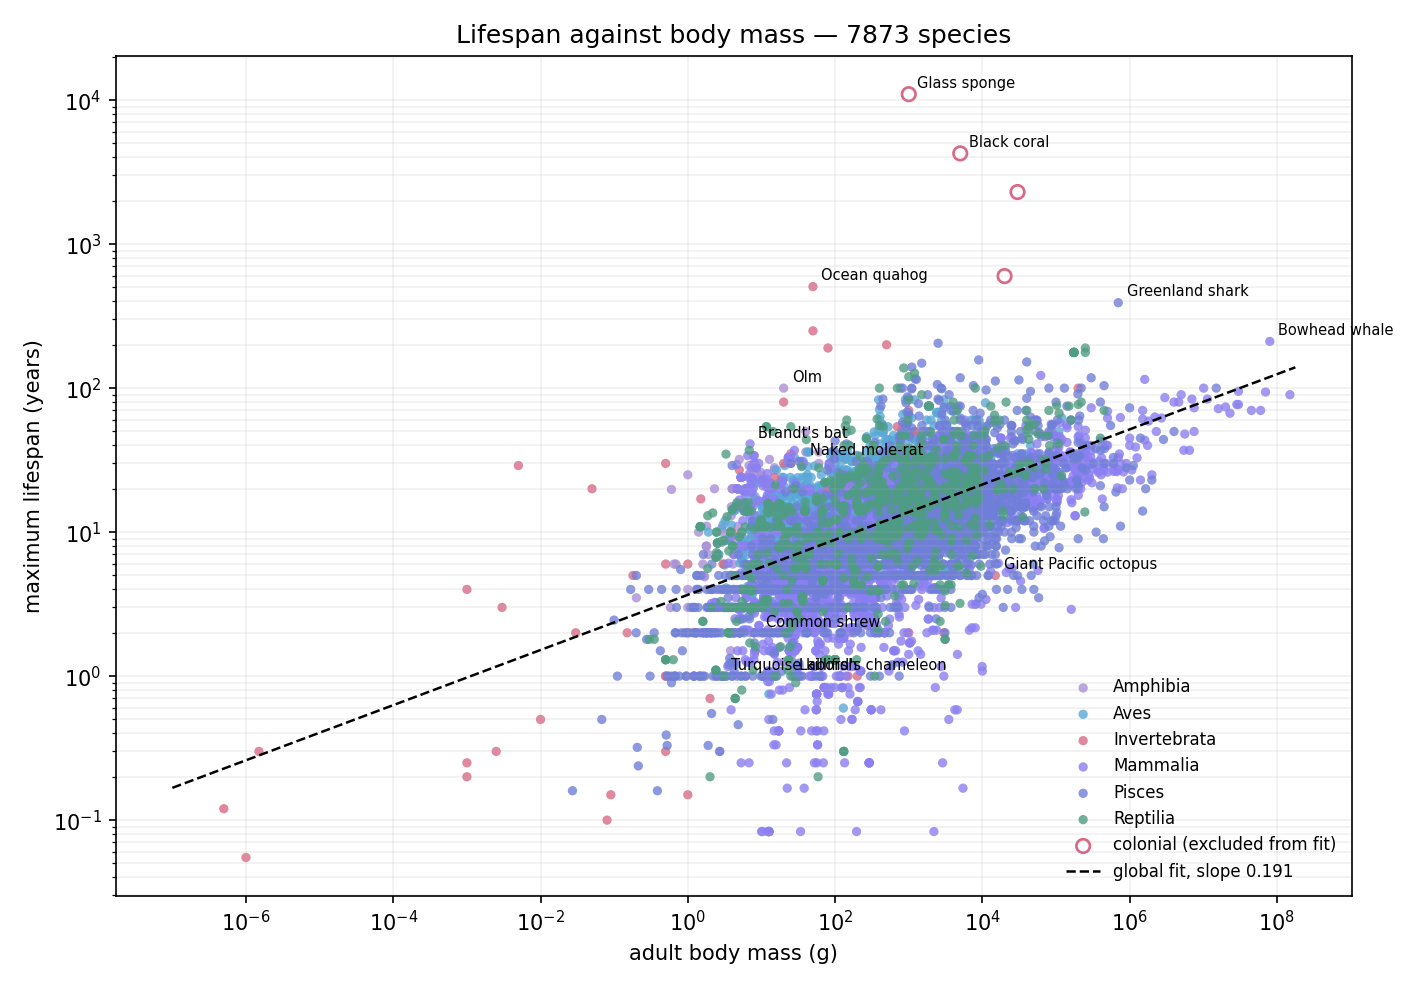
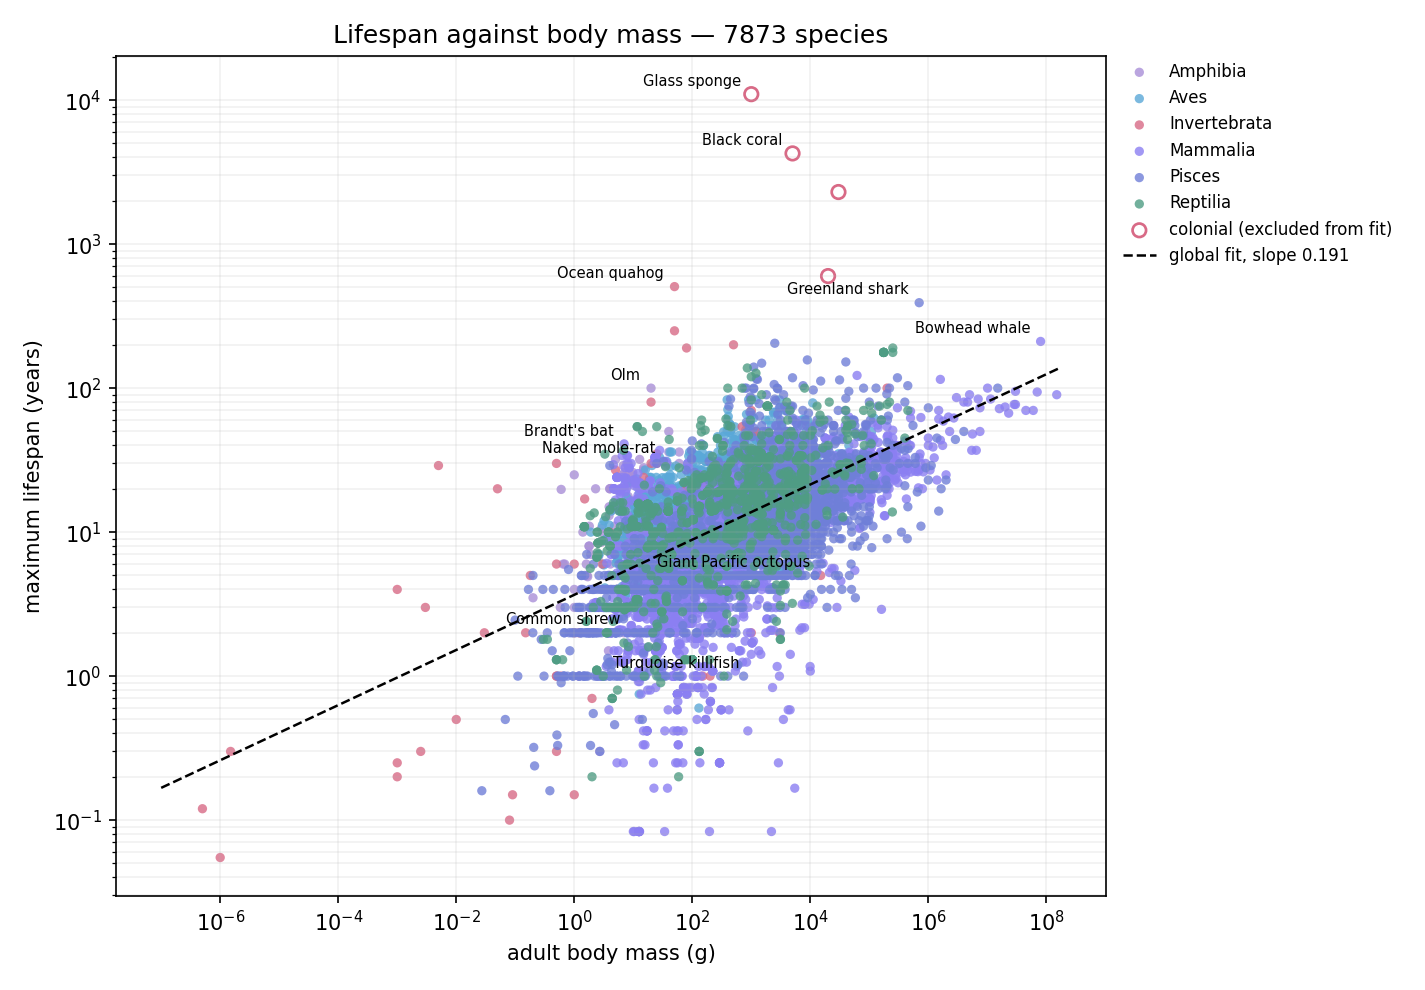
Rebuild site: globe atlas, 3D brain, wider layout, corrected models (2026-08-03)

diff --git a/index.html b/index.html
@@ -16,10 +16,6 @@
 <h1>Andrew Silvestri</h1>
 <p class="dim">Chemical engineering at UT Austin. Energy systems modelling.</p>
 
-<p>I build models of energy systems, from the thermodynamics of a single vessel
-up to a model of the world energy system with 86,622 nodes. Everything here ships
-with its code, its data sources, and its limits written down.</p>
-
 <div class="card">
 <div class="tag">Main project</div>
 <h3 style="margin-top:4px">A model of the world energy system</h3>
@@ -75,7 +71,9 @@ The port matched the workbook formulas exactly, and showed that the workbook's
 displayed values carried a stale calculation.</p>
 </div>
 <div class="card">
-<h3 style="margin-top:4px"></h3>
+<div class="tag">Data and method</div>
+<h3 style="margin-top:4px"><a href="model.html">Where the model's numbers come
+from</a></h3>
 <p>Every power plant in the world database, every settlement above fifteen
 thousand people, every port in the World Port Index, and the measured climate
 and disaster records, wired into 86,622 nodes and 197,068 links. The page sets out
@@ -86,61 +84,66 @@ where each number came from and what the model will not tell you.</p>
 <hr>
 <h2>Climate research</h2>
 
+<div class="cardgrid">
+<div class="card">
+<div class="tag">Life-cycle · interactive</div>
+<h3 style="margin-top:4px"><a href="climate-cost.html">The true climate
+cost</a></h3>
+<p>Twenty products taken apart stage by stage, with the allocation on every
+edge and the lifetime of every vehicle exposed rather than buried. Change the
+route and it recomputes instead of looking up an answer somebody prepared.</p>
+</div>
 <div class="card">
 <div class="tag">Agriculture · synthesis</div>
 <h3 style="margin-top:4px"><a href="beans.html">Nitrogen-fixing beans</a></h3>
 <p>A legume makes its own fertiliser; a cereal needs a Haber&ndash;Bosch
 plant to make it instead. Four routes are being engineered to move that
 ability, and they are at wildly different stages &mdash; one is routine, one
-produces structures that do not work, one has never produced a plant. The
-figure states each at the level it has actually reached.</p>
-<a class="btn ghost" href="beans.html">Read it</a>
+produces structures that do not work, one has never produced a plant.</p>
 </div>
-
 <div class="card">
-<div class="tag">Materials · synthesis</div>
+<div class="tag">Materials · interactive</div>
 <h3 style="margin-top:4px"><a href="running-shoes.html">What a running shoe is
 made of</a></h3>
-<p>Three shoes in side profile with every layer named by its polymer. Six or
-seven plastics, bonded to each other, worn out in months: the recycling
-problem is in the construction rather than the disposal, and the take-back
-bin addresses the last step of a decision made at the design stage.</p>
-<a class="btn ghost" href="running-shoes.html">Read it</a>
+<p>Four constructions in three dimensions, every layer named by its polymer.
+Six or seven plastics, bonded to each other, worn out in months: the recycling
+problem is in the construction rather than the disposal.</p>
 </div>
-
 <div class="card">
 <div class="tag">Books · in progress</div>
 <h3 style="margin-top:4px"><a href="mammon.html">The Mammon trilogy</a></h3>
 <p>Three books reading civilisation as an energy system: greed, growth and
 maintenance, in that order. Started April 2026 on a five-year schedule. The
-page states the structure, the reading and the current state, which for a
-project this long is the only honest thing to publish early.</p>
-<a class="btn ghost" href="mammon.html">Read it</a>
+page states the structure, the reading and the current state.</p>
+</div>
 </div>
 
 <hr>
 <h2>Other work</h2>
 
+<div class="cardgrid">
 <div class="card">
 <div class="tag">Sonification · interactive</div>
 <h3 style="margin-top:4px"><a href="skyline.html">Skylines, played</a></h3>
 <p>A skyline and a spectrum analyser are the same picture, so the picture is
-played. Twenty-seven cities built from real building heights and coordinates; turn on
-the spot and the sound turns with you. What is measured, what is assumed and
-what is invented are each labelled, because in sonification they usually are
-not.</p>
-<a class="btn ghost" href="skyline-app.html" target="_blank" rel="noopener">Open it</a>
+played. Twenty-seven cities built from real building heights and coordinates;
+turn on the spot and the sound turns with you. What is measured, what is
+assumed and what is invented are each labelled.</p>
 </div>
-
 <div class="card">
 <div class="tag">Allometry · interactive</div>
 <h3 style="margin-top:4px"><a href="longevity.html">Longevity quotient</a></h3>
 <p>How long an animal lives, against how long an animal of its size should
 live. Body mass predicts lifespan across fourteen orders of magnitude; the
-quotient is what is left once that relationship is divided out. An ocean quahog
-beats its prediction thirty-two-fold, a honey bee worker misses it twentyfold,
-and the queen that shares her genome does not.</p>
-<a class="btn ghost" href="longevity-app.html" target="_blank" rel="noopener">Open the visualiser</a>
+quotient is what is left once that relationship is divided out.</p>
+</div>
+<div class="card">
+<div class="tag">Desktop · interactive</div>
+<h3 style="margin-top:4px"><a href="desktop.html">The bookshelf</a></h3>
+<p>A wallpaper built from a Goodreads export: your books as drawn spines, or
+as a wall of their real covers brought to one finish. The CSV is parsed in the
+browser and never leaves it.</p>
+</div>
 </div>
 
 <hr>

diff --git a/heat.html b/heat.html
@@ -45,16 +45,16 @@ gas boiler only when the grid carbon intensity<sup class="cite" id="cr3"><a href
 average for the Texas grid is about 0.365. On average grid power, electrifying
 this heat increases emissions.</p>
 
-<img class="fig wide" src="assets/heat_fig1_breakeven_price.png?v=dee670cf" alt="Break-even electricity price as a function of the gas price. The line is the locus where the two routes cost the same; below it the electric boiler wins.">
+<img class="fig wide" src="assets/heat_fig1_breakeven_price.png?v=e714947e" alt="Break-even electricity price as a function of the gas price. The line is the locus where the two routes cost the same; below it the electric boiler wins.">
 <p class="small">Break-even electricity price as a function of the gas price. The line is the locus where the two routes cost the same; below it the electric boiler wins.</p>
 
-<img class="fig wide" src="assets/heat_fig3_costgap_contour.png?v=d319901c" alt="Cost gap across the electricity price and gas price plane. The diagonal structure is the spark gap dominating both axes.">
+<img class="fig wide" src="assets/heat_fig3_costgap_contour.png?v=a876a80e" alt="Cost gap across the electricity price and gas price plane. The diagonal structure is the spark gap dominating both axes.">
 <p class="small">Cost gap across the electricity price and gas price plane. The diagonal structure is the spark gap dominating both axes.</p>
 
 <img class="fig wide" src="assets/heat_fig4_tornado.png?v=cd64ec04" alt="Sensitivity of the break-even to every input. Fuel prices dominate; capital and operations barely move it.">
 <p class="small">Sensitivity of the break-even to every input. Fuel prices dominate; capital and operations barely move it.</p>
 
-<img class="fig wide" src="assets/heat_fig5_emissions_parity.png?v=e9afa8ee" alt="Emissions of both routes against grid carbon intensity. The crossing point is the parity threshold.">
+<img class="fig wide" src="assets/heat_fig5_emissions_parity.png?v=9ac36287" alt="Emissions of both routes against grid carbon intensity. The crossing point is the parity threshold.">
 <p class="small">Emissions of both routes against grid carbon intensity. The crossing point is the parity threshold.</p>
 
 

diff --git a/storage.html b/storage.html
@@ -48,16 +48,16 @@ and a longer battery cannot manufacture more of them.</p>
 argument even where it does not matter for revenue. The eight-hour case turns
 over about a third as many equivalent cycles as the two-hour case.</p>
 
-<img class="fig wide" src="assets/storage_fig3_duration_value.png?v=976e79ec" alt="Revenue against storage duration. The curve bends at about four hours.">
+<img class="fig wide" src="assets/storage_fig3_duration_value.png?v=b54d5a77" alt="Revenue against storage duration. The curve bends at about four hours.">
 <p class="small">Revenue against storage duration. The curve bends at about four hours.</p>
 
-<img class="fig wide" src="assets/storage_fig2_dispatch_week.png?v=0f3d0222" alt="A summer week of dispatch. Charging fills the solar belly of the day; discharge meets the evening peak.">
+<img class="fig wide" src="assets/storage_fig2_dispatch_week.png?v=33b76c80" alt="A summer week of dispatch. Charging fills the solar belly of the day; discharge meets the evening peak.">
 <p class="small">A summer week of dispatch. Charging fills the solar belly of the day; discharge meets the evening peak.</p>
 
 <img class="fig wide" src="assets/storage_fig4_sensitivity.png?v=915a1c38" alt="Sensitivity to round-trip efficiency and degradation cost.">
 <p class="small">Sensitivity to round-trip efficiency and degradation cost.</p>
 
-<img class="fig wide" src="assets/storage_fig1_prices.png?v=30a0a879" alt="The price series: duration curve and average daily shape.">
+<img class="fig wide" src="assets/storage_fig1_prices.png?v=9dad5ac5" alt="The price series: duration curve and average daily shape.">
 <p class="small">The price series: duration curve and average daily shape.</p>
 
 

diff --git a/dac.html b/dac.html
@@ -57,7 +57,7 @@ it survives, not by the thermodynamics of the swing.</p>
 <img class="fig wide" src="assets/dac_fig2_working_capacity.png?v=e7dded13" alt="Working capacity against desorption temperature. The curve shows how much swing is bought by each additional degree.">
 <p class="small">Working capacity against desorption temperature. The curve shows how much swing is bought by each additional degree.</p>
 
-<img class="fig wide" src="assets/dac_fig3_energy_per_tonne.png?v=8249c7c4" alt="Regeneration energy per tonne against heat recovery fraction.">
+<img class="fig wide" src="assets/dac_fig3_energy_per_tonne.png?v=6bea8f09" alt="Regeneration energy per tonne against heat recovery fraction.">
 <p class="small">Regeneration energy per tonne against heat recovery fraction.</p>
 
 <img class="fig wide" src="assets/dac_fig5_cost_tornado.png?v=0bb12b9d" alt="Cost sensitivity. Cycles per day, sorbent cost and sorbent life dominate.">

diff --git a/longevity.html b/longevity.html
@@ -49,7 +49,7 @@ member or species count. Click a group to drop into the species inside it.</p>
 <a class="btn ghost" href="downloads/longevity-code.zip">Download code and data</a>
 </div>
 
-<img class="fig wide" src="assets/lq_allometry.png?v=73fa9825"
+<img class="fig wide" src="assets/lq_allometry.png?v=d05c1218"
  alt="Maximum lifespan against adult body mass on logarithmic axes, coloured by
  class, with the fitted global relationship and labelled outliers">
 <p class="small">Lifespan against body mass. The dashed line is the fit across
